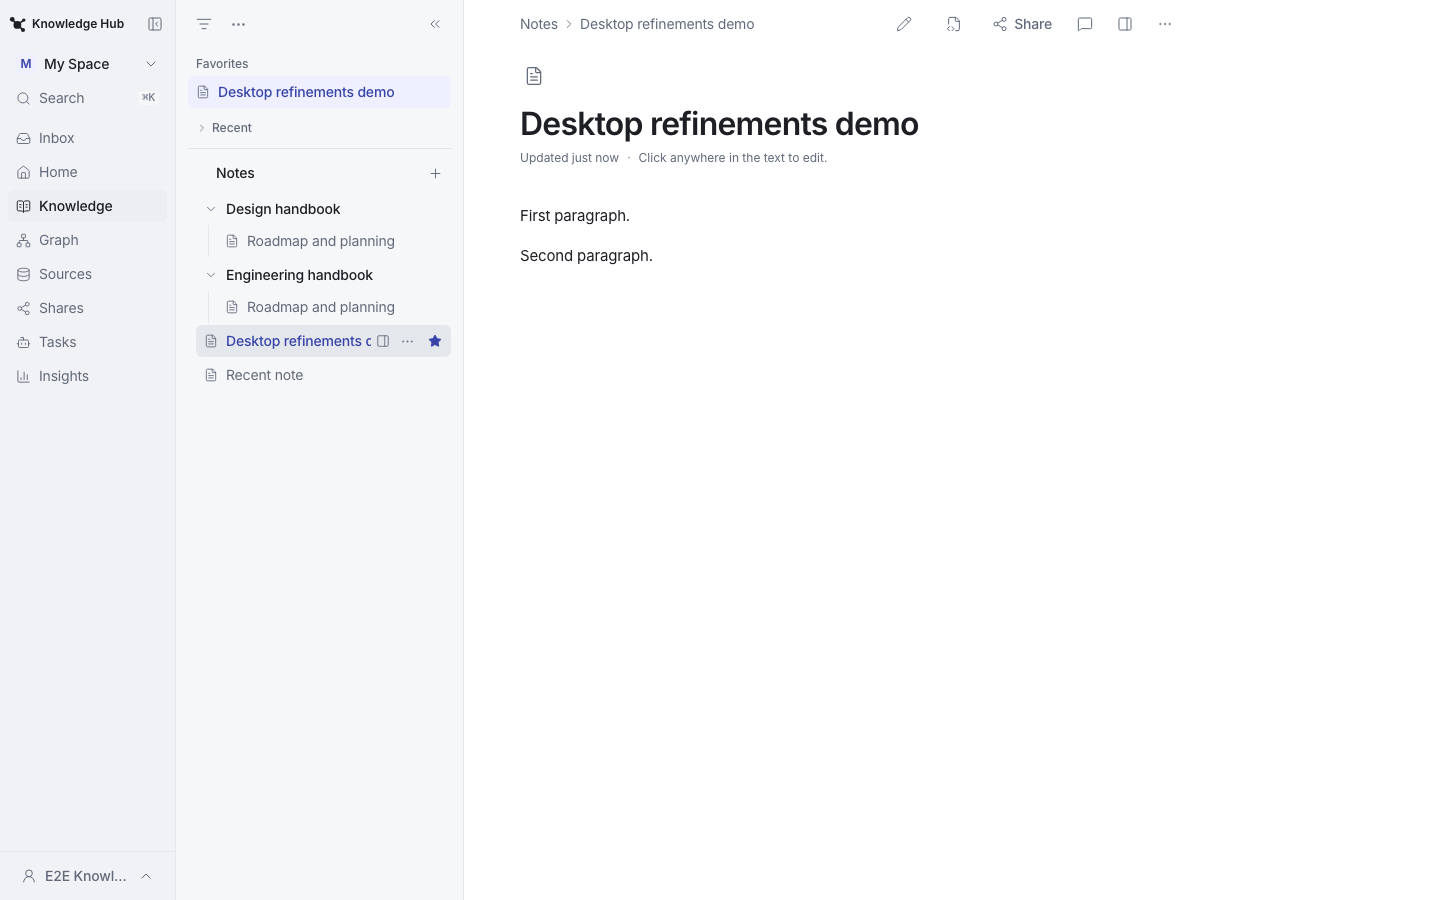
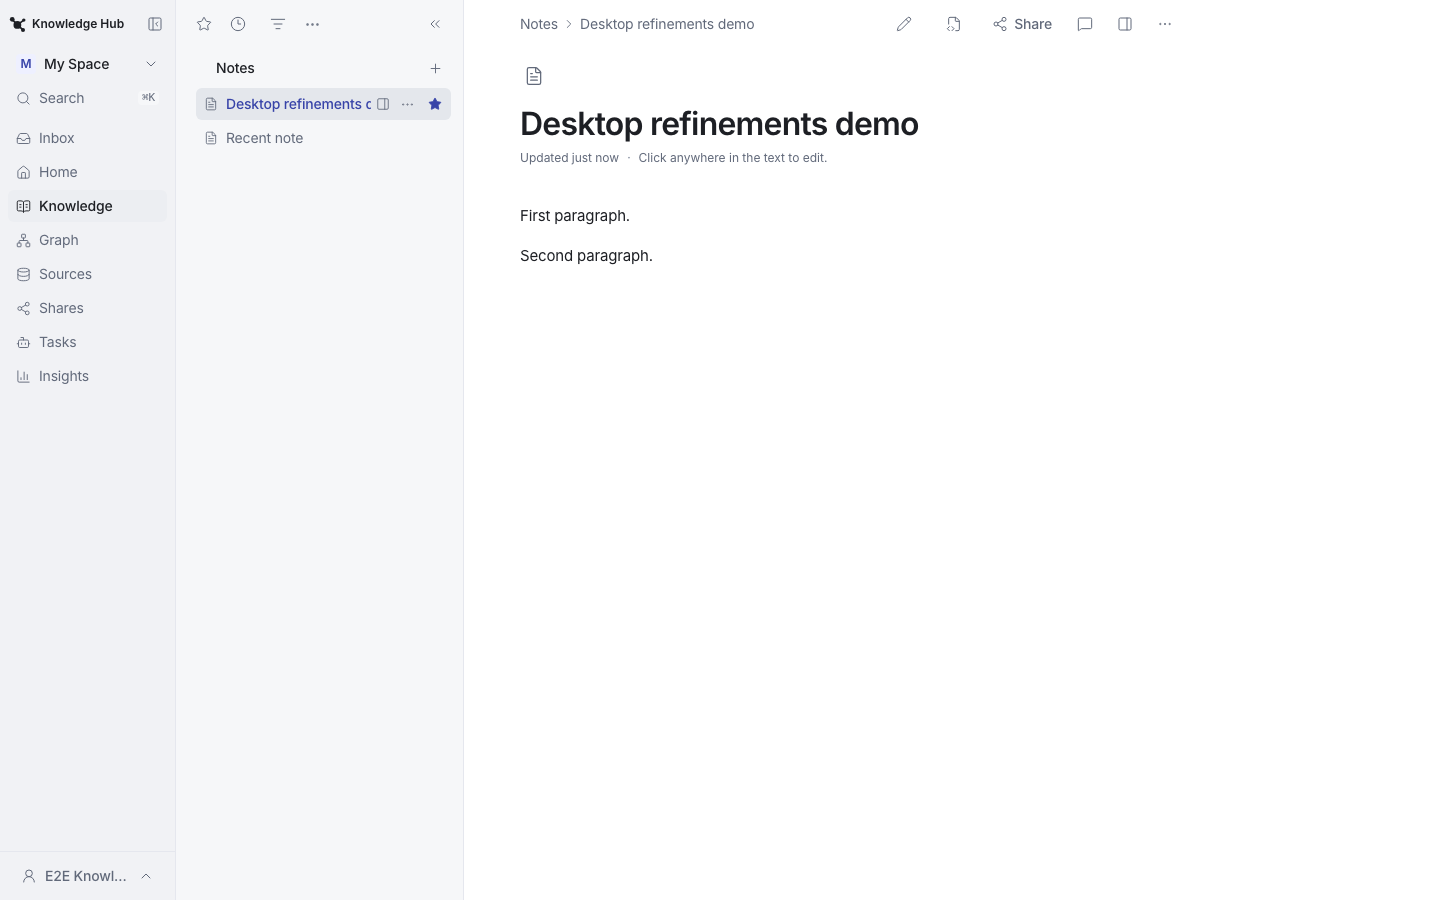
Refresh PR 367 screenshots after reverting inline explorer shortcuts

Changed region(s): [[0.1562, 0.1867, 0.2812, 0.3111], [0.125, 0.0622, 0.2812, 0.1556], [0.1562, 0.3733, 0.2812, 0.4356]]

diff --git a/docs/screenshots/pr-367/README.md b/docs/screenshots/pr-367/README.md
@@ -3,27 +3,19 @@
 Captured at 1440×900 in the PR's production build, with the same seeded personal workspace and content:
 
 - **Before:** `b66a360a` (the PR base, current `main` at the time).
-- **After:** `99172543` (the PR head).
+- **After:** the PR head with the Explorer Favorites/Recent experiment reverted.
 
 Each pair drives the same scenario; only the build differs.
 
 ## 1. Document page
 
-Before, the path line truncates the title, the favorite star and Full width sit in the header, Share is icon-only, and a document with no discussions has no Comments entry. After, the path line shows the full title, Share is labeled, Comments is always available for a writable document, and Full width and the favorite live in Document actions. The explorer also shows Favorites and Recent inline.
+Before, the path line truncates the title, the favorite star and Full width sit in the header, Share is icon-only, and a document with no discussions has no Comments entry. After, the path line shows the full title, Share is labeled, Comments is always available for a writable document, and Full width and the favorite live in Document actions. The explorer keeps its star and clock toolbar menus.
 
 | Before | After |
 | --- | --- |
 | ![Document page before](01-document-page-before.png) | ![Document page after](01-document-page-after.png) |
 
-## 2. Explorer: Favorites and Recent
-
-Before, Favorites and Recent are star and clock menus in the explorer toolbar. After, Favorites is a short list above the tree and Recent is a disclosure below it, collapsed by default and remembered per workspace.
-
-| Before | After |
-| --- | --- |
-| ![Explorer before](02-explorer-before.png) | ![Explorer after](02-explorer-after.png) |
-
-## 3. Quick search: document results first, with folder paths
+## 2. Quick search: document results first, with folder paths
 
 Querying the title of the open document, before lists the eight "This document" actions first (the old matcher included the document's own title in every action's keywords) and the two matching documents carry only "Notes". After puts the two documents first with "Notes › Design handbook" and "Notes › Engineering handbook".
 
@@ -31,7 +23,7 @@ Querying the title of the open document, before lists the eight "This document" 
 | --- | --- |
 | ![Quick search before](03-quick-search-before.png) | ![Quick search after](03-quick-search-after.png) |
 
-## 4. Share link: scope beside Create link
+## 3. Share link: scope beside Create link
 
 Before, the long safety description fills the top of the dialog. After, a compact audience and scope summary sits beside Create link and follows the selected expiry.
 
@@ -39,7 +31,7 @@ Before, the long safety description fills the top of the dialog. After, a compac
 | --- | --- |
 | ![Share link before](04-share-link-before.png) | ![Share link after](04-share-link-after.png) |
 
-## 5. Block menu: Copy link to block and Comment
+## 4. Block menu: Copy link to block and Comment
 
 Before, the block menu is Turn into / Duplicate / Delete / Move up / Move down. After adds Copy link to block and Comment.
 
@@ -47,7 +39,7 @@ Before, the block menu is Turn into / Duplicate / Delete / Move up / Move down. 
 | --- | --- |
 | ![Block menu before](05-block-menu-before.png) | ![Block menu after](05-block-menu-after.png) |
 
-## 6. Creating a note: title and body while the request is pending
+## 5. Creating a note: title and body while the request is pending
 
 The create request is held open in both builds. Before, only the title accepts input. After, the title and body both accept input and are carried into the editor when it opens.
 
